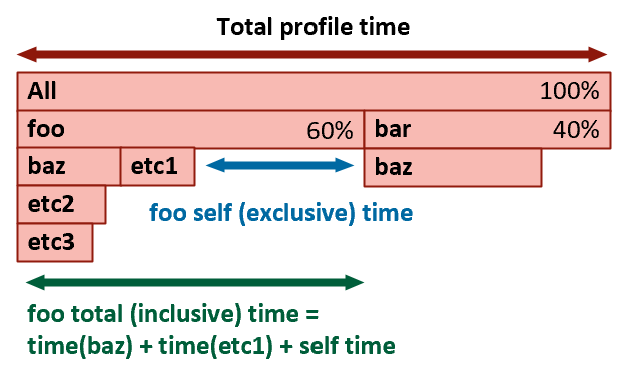
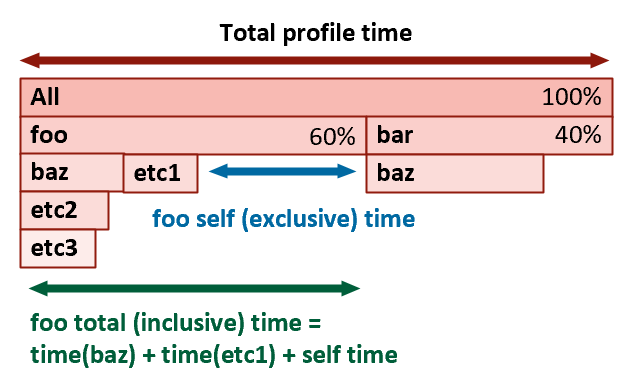
Update flame graph help

Changed region(s): [[0.0, 0.0297, 1.0, 0.9811]]

diff --git a/resources/help/flameGraph/flameGraphHelp.html b/resources/help/flameGraph/flameGraphHelp.html
@@ -7,11 +7,16 @@
 </head>
 <body><br>
 <details class="accordion" open>
-  <summary class="header">Flame Graph
-        learning resources
+  <summary class="header">Flame graphs
     </summary>
     <div class="body">
-    <img src="diagram.png"  alt=""/>
+        <p>A flame graph is an alternative, more compact way of viewing a call tree, where function instances are nodes with a size proportional to the time spent relative to the parent (caller) function. This makes it easier to identify the portions of the app where most time is spent.</p>
+        <p>Nodes are sorted on the horizontal direction based on decreasing time relative to parent node, while the stacking on the vertical direction forms a back trace.</p>
+        <p>The diagram below shows the corresponding flame graph for an example call tree:</p>
+        <img src="calLTree.png"  alt=""/>
+        <p>Flame graph</p>
+        <img src="diagram.png"  alt=""/>
+
 <p> The following links provide an introduction to the concept of the
             flame graph visualization, its history and how it's being used across
             the industry for performance investigations. </p>
